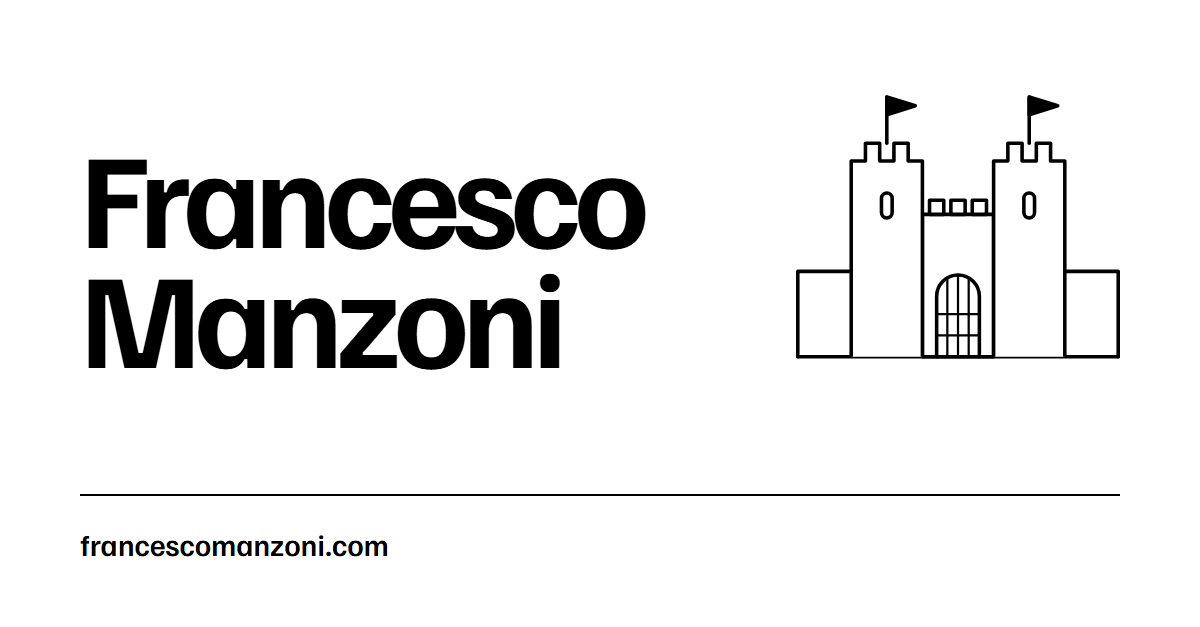
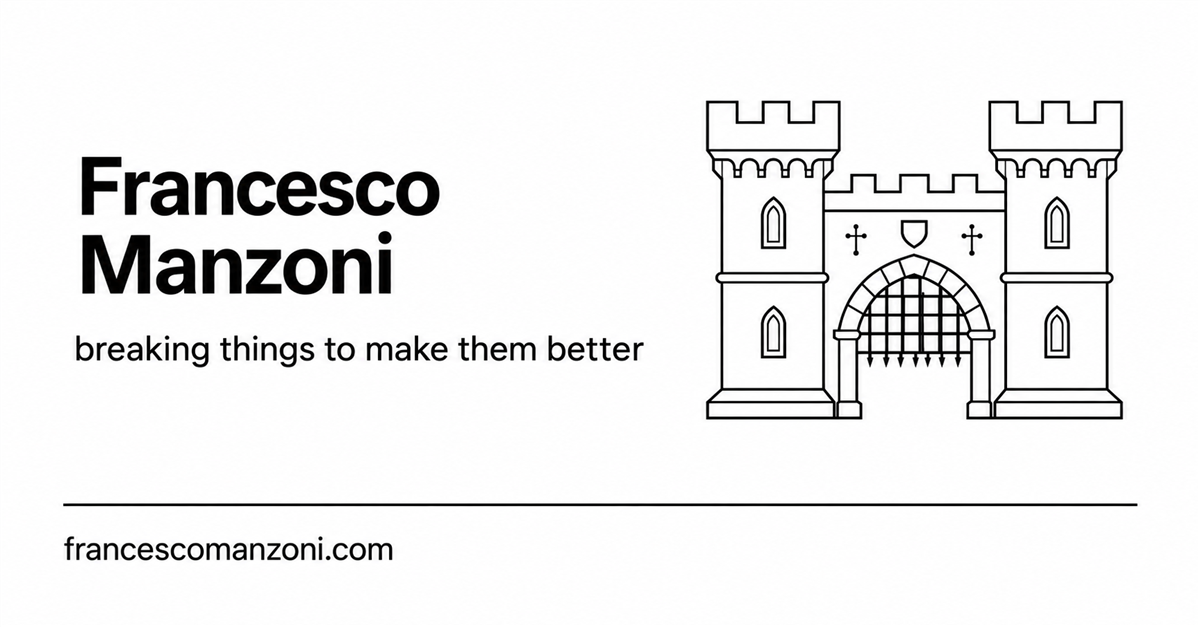
Update gatehouse and recent writing

diff --git a/index.html b/index.html
@@ -3,7 +3,7 @@ layout: default
 ---
 <section class="hero">
   <h1>Francesco<br>Manzoni</h1>
-  <svg class="castle" viewBox="0 0 191 170" role="img" aria-label="A line drawing of a castle gatehouse"><line x1="10" y1="160" x2="190" y2="160" fill="none" stroke="#000" stroke-width="2" stroke-linejoin="round" stroke-linecap="round"></line><path d="M10 160 V112 H40 M160 112 H190 V160" fill="none" stroke="#000" stroke-width="2" stroke-linejoin="round" stroke-linecap="round"></path><rect x="80" y="80" width="40" height="80" fill="#fff" stroke="#000" stroke-width="2" stroke-linejoin="round"></rect><rect x="84" y="72" width="8" height="8" fill="#fff" stroke="#000" stroke-width="2" stroke-linejoin="round"></rect><rect x="96" y="72" width="8" height="8" fill="#fff" stroke="#000" stroke-width="2" stroke-linejoin="round"></rect><rect x="108" y="72" width="8" height="8" fill="#fff" stroke="#000" stroke-width="2" stroke-linejoin="round"></rect><path d="M40 160 V50 h8 v-10 h8 v10 h8 v-10 h8 v10 h8 V160" fill="#fff" stroke="#000" stroke-width="2" stroke-linejoin="round"></path><path d="M120 160 V50 h8 v-10 h8 v10 h8 v-10 h8 v10 h8 V160" fill="#fff" stroke="#000" stroke-width="2" stroke-linejoin="round"></path><path d="M88 160 v-34 a12 12 0 0 1 24 0 v34" fill="none" stroke="#000" stroke-width="2" stroke-linejoin="round" stroke-linecap="round"></path><path d="M94 116 V160 M100 114 V160 M106 116 V160 M88 136 H112 M88 148 H112" fill="none" stroke="#000" stroke-width="1.25" stroke-linecap="round"></path><rect x="57" y="68" width="6" height="14" rx="3" fill="#fff" stroke="#000" stroke-width="2" stroke-linejoin="round"></rect><rect x="137" y="68" width="6" height="14" rx="3" fill="#fff" stroke="#000" stroke-width="2" stroke-linejoin="round"></rect><line x1="60" y1="40" x2="60" y2="14" fill="none" stroke="#000" stroke-width="2" stroke-linejoin="round" stroke-linecap="round"></line><path d="M60 14 l16 5 l-16 5 z" fill="#000" stroke="#000" stroke-width="2" stroke-linejoin="round"></path><line x1="140" y1="40" x2="140" y2="14" fill="none" stroke="#000" stroke-width="2" stroke-linejoin="round" stroke-linecap="round"></line><path d="M140 14 l16 5 l-16 5 z" fill="#000" stroke="#000" stroke-width="2" stroke-linejoin="round"></path></svg>
+  <img class="castle" src="/assets/castle.png" width="622" height="480" alt="A line drawing of a castle gatehouse">
 </section>
 
 <p class="lede">I’ve spent nearly twenty years breaking things so they can be built back stronger, looking after critical infrastructure in banking, financial services and utilities. Today I lead product security, application security and offensive security teams. I still write code and tinker, because the best way to understand a system is to take it apart.</p>
@@ -34,7 +34,7 @@ layout: default
     <a class="ul always" href="/writing/">All writing</a>
   </div>
   <ul class="posts">
-    {% for post in site.posts limit:2 %}
+    {% for post in site.posts limit:3 %}
     <li><a class="post-row" href="{{ post.url }}">
       <span class="date">{{ post.date | date: "%-d %b %Y" }}</span>
       <span class="title">{{ post.title }}</span>
